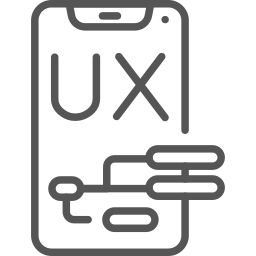
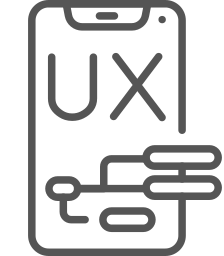
updated the index.html and style.css files

diff --git a/index.html b/index.html
@@ -111,24 +111,24 @@
         <div id="app-desc-end" class="col-xs-12 pt-xs-5 col-md-8 px-md-5 pt-md-0">
           <h3>مميزات التطبيق</h3>
           <div class="row p-4">
-            <div class="column col-xs-6 col-md-4">
-              <img src="./images/features/orders.png" width="75px" />
+            <div class="column col col-xs-6 col-md-4">
+              <img src="./images/features/orders.png" />
               <label>طلب كتابة قصيدة</label>
             </div>
-            <div class="column col-xs-6 col-md-4">
-              <img src="./images/features/edit.png" width="75px" />
+            <div class="column col col-xs-6 col-md-4">
+              <img src="./images/features/edit.png" />
               <label>تعديل قصيدة</label>
             </div>
-            <div class="column col-xs-6 col-md-4">
-              <img src="./images/features/poetry.png" width="75px" />
+            <div class="column col col-xs-6 col-md-4">
+              <img src="./images/features/poetry.png" />
               <label>تقديم خدمة كتابة القصائد</label>
             </div>
-            <div class="column col-xs-6 col-md-4">
-              <img src="./images/features/microphone.png" width="75px" />
+            <div class="column col col-xs-6 col-md-4">
+              <img src="./images/features/microphone.png" />
               <label>تقديم خدمة متعلقة بالقصائد</label>
             </div>
-            <div class="column col-xs-6 col-md-4">
-              <img src="./images/features/ai-technology.png" width="75px" />
+            <div class="column col col-xs-6 col-md-4">
+              <img src="./images/features/ai-technology.png"/>
               <label>كتابة قصيدة باستخدام الذكاء الاصطناعي</label>
             </div>
           </div>
@@ -222,16 +222,16 @@
               <div id="contact-info">
                 <div id="contact-field">
                   <label>البريد الإلكتدوني: </label>
-                  <label>info@email.com</label>
+                  <label style="direction: ltr;">almarshadaziz@gmail.com</label>
                 </div>
                 <div id="contact-field">
-                  <label>Phone:</label>
-                  <label>+966--------</label>
+                  <label>رقم التواصل:</label>
+                  <label style="direction: ltr;">+966 55 777 4098</label>
                 </div>
-                <div id="contact-field">
-                  <label>Address:</label>
-                  <label>Riyadh - King Fahd Road</label>
-                </div>
+                <!-- <div id="contact-field">
+                  <label>العنوان:</label>
+                  <label style="direction: ltr;">Riyadh - King Fahd Road</label>
+                </div> -->
               </div>
             </div>
           </div>

diff --git a/style.css b/style.css
@@ -8,7 +8,7 @@ body {
   font-family: 'Cairo';
   font-size: 2em;
   direction: rtl;
-  line-height: 1.25em;
+  line-height: 1.15em;
 }
 
 h3{
@@ -77,7 +77,7 @@ a {
 }
 
 #app-icon-image img {
-  width: 195px;
+  width: 215px;
   height: 85px;
   border-radius: 15px;
 }
@@ -142,8 +142,14 @@ div.row{
 
 }
 
+#app-desc-section .column img{
+  width: 80px;
+}
+
 #app-desc-section .column label{
   font-size: 60%;
+  line-height: 1.15rem;
+  margin-top: 15px;
 }
 
 #app-desc-start {
@@ -188,7 +194,6 @@ div.row{
   justify-content: center;
   align-items: center;
   font-size: 70%;
-  margin-left: 20px;
   margin-top: 20px;
   margin-bottom: 20px;
   text-align: center;
@@ -245,7 +250,7 @@ div.row{
 }
 
 #app-features-section .row .column img{
-  width: 120px;
+  width: 25%;
   margin-bottom: 20px;
 }
 
@@ -272,12 +277,17 @@ div.row{
 }
 
 #app-team-section ul img{
-    width: 120px;
-    height: 120px;
+    width: 130px;
+    height: 130px;
     border-radius: 200px;
     margin: 10px;
     border: 1px solid #555;
 
+}
+
+#app-team-section label{
+  font-size: 18px;
+  line-height: 1.15rem;
 }
 
 #contact-us-section{
@@ -358,20 +368,6 @@ div.row{
   margin: 10px;
 }
 
-/* Privacy Screen --------------------------- */
-
-#privacy-section {
-  padding: 40px;
-  padding-top: 60px;
-  margin: auto;
-  margin-bottom: 25px;
-  font-size: 24px;
-  line-height: 1.5em;
-  width: 70%;
-  font-weight: 100;
-  font-family: "Gill Sans", "Gill Sans MT", Calibri, "Trebuchet MS", sans-serif;
-}
-
 #app-features-bottom {
   font-family: sans-serif;
   font-size: 16px;
@@ -397,10 +393,6 @@ div.row{
   padding: 20px;
 }
 
-.features ul li img{
-    width: 75px;
-    margin: 10px;
-}
 
 .features ul li{
     display: flex;
